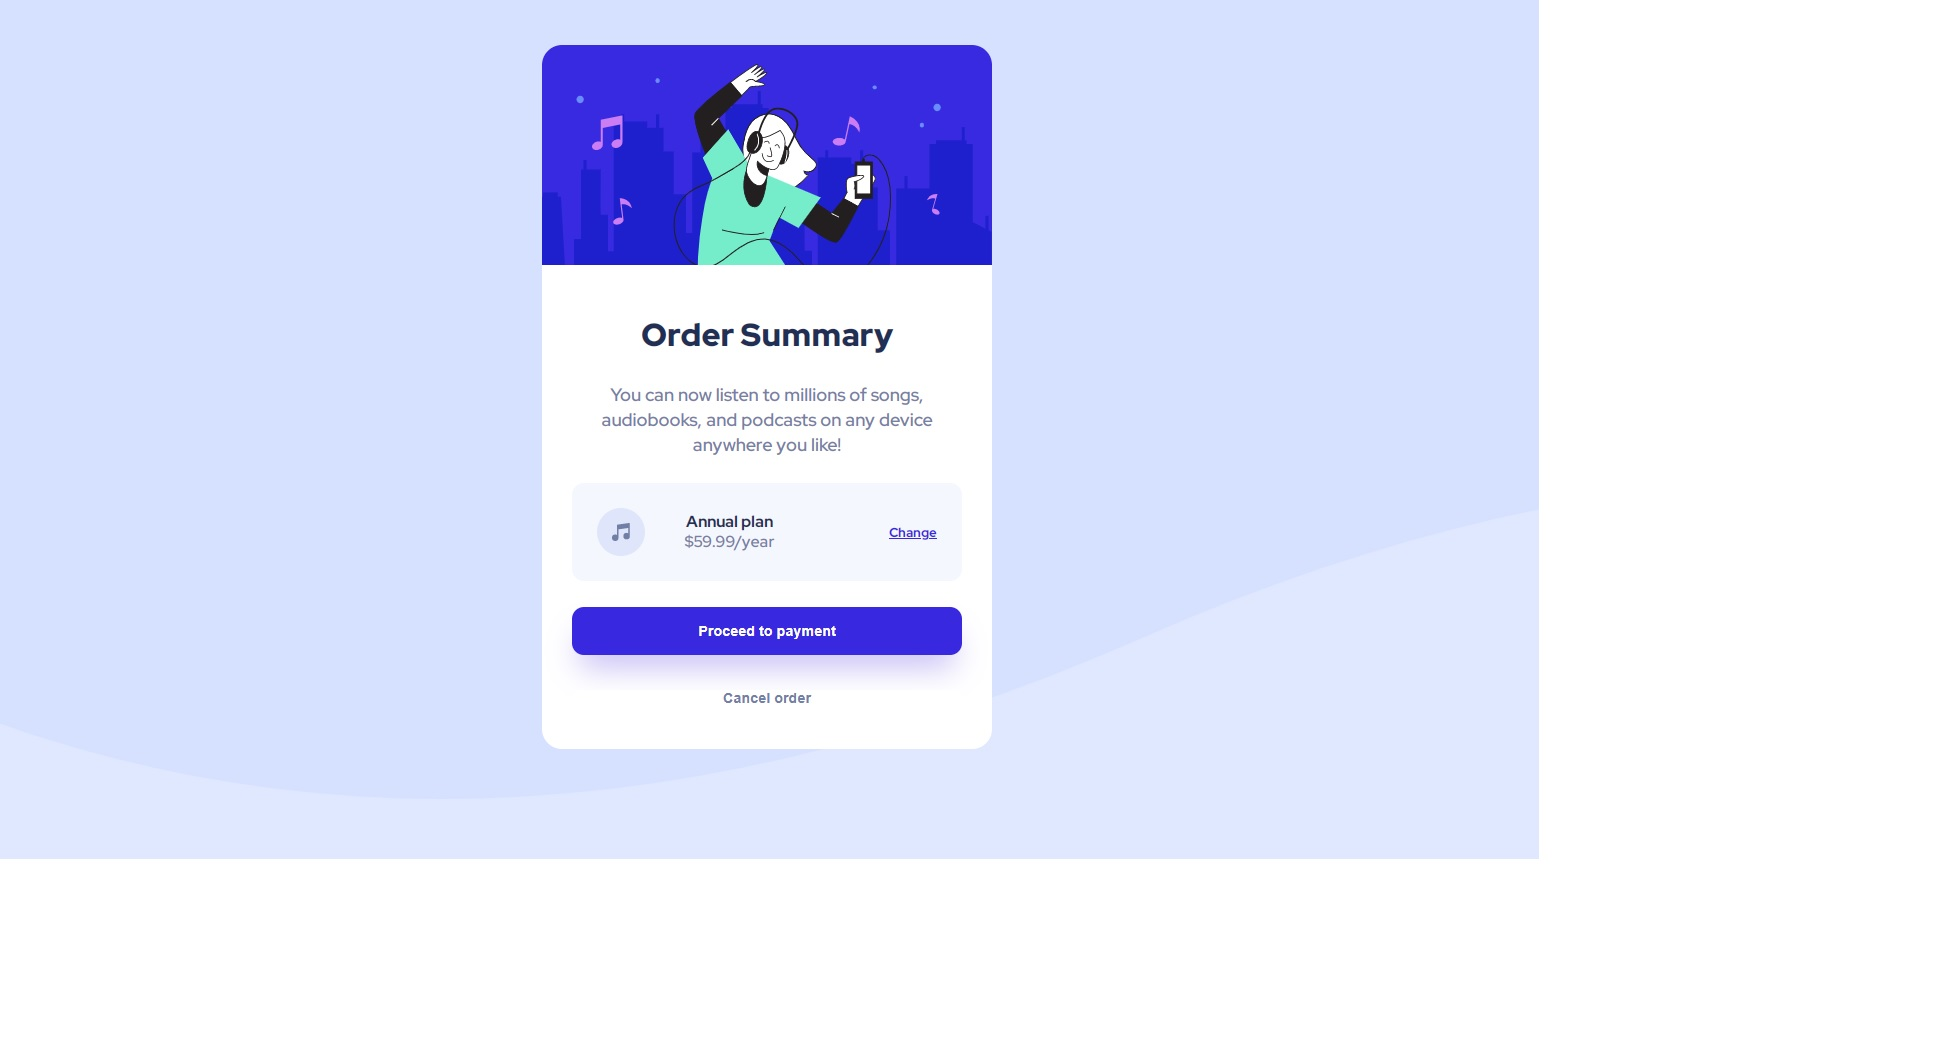
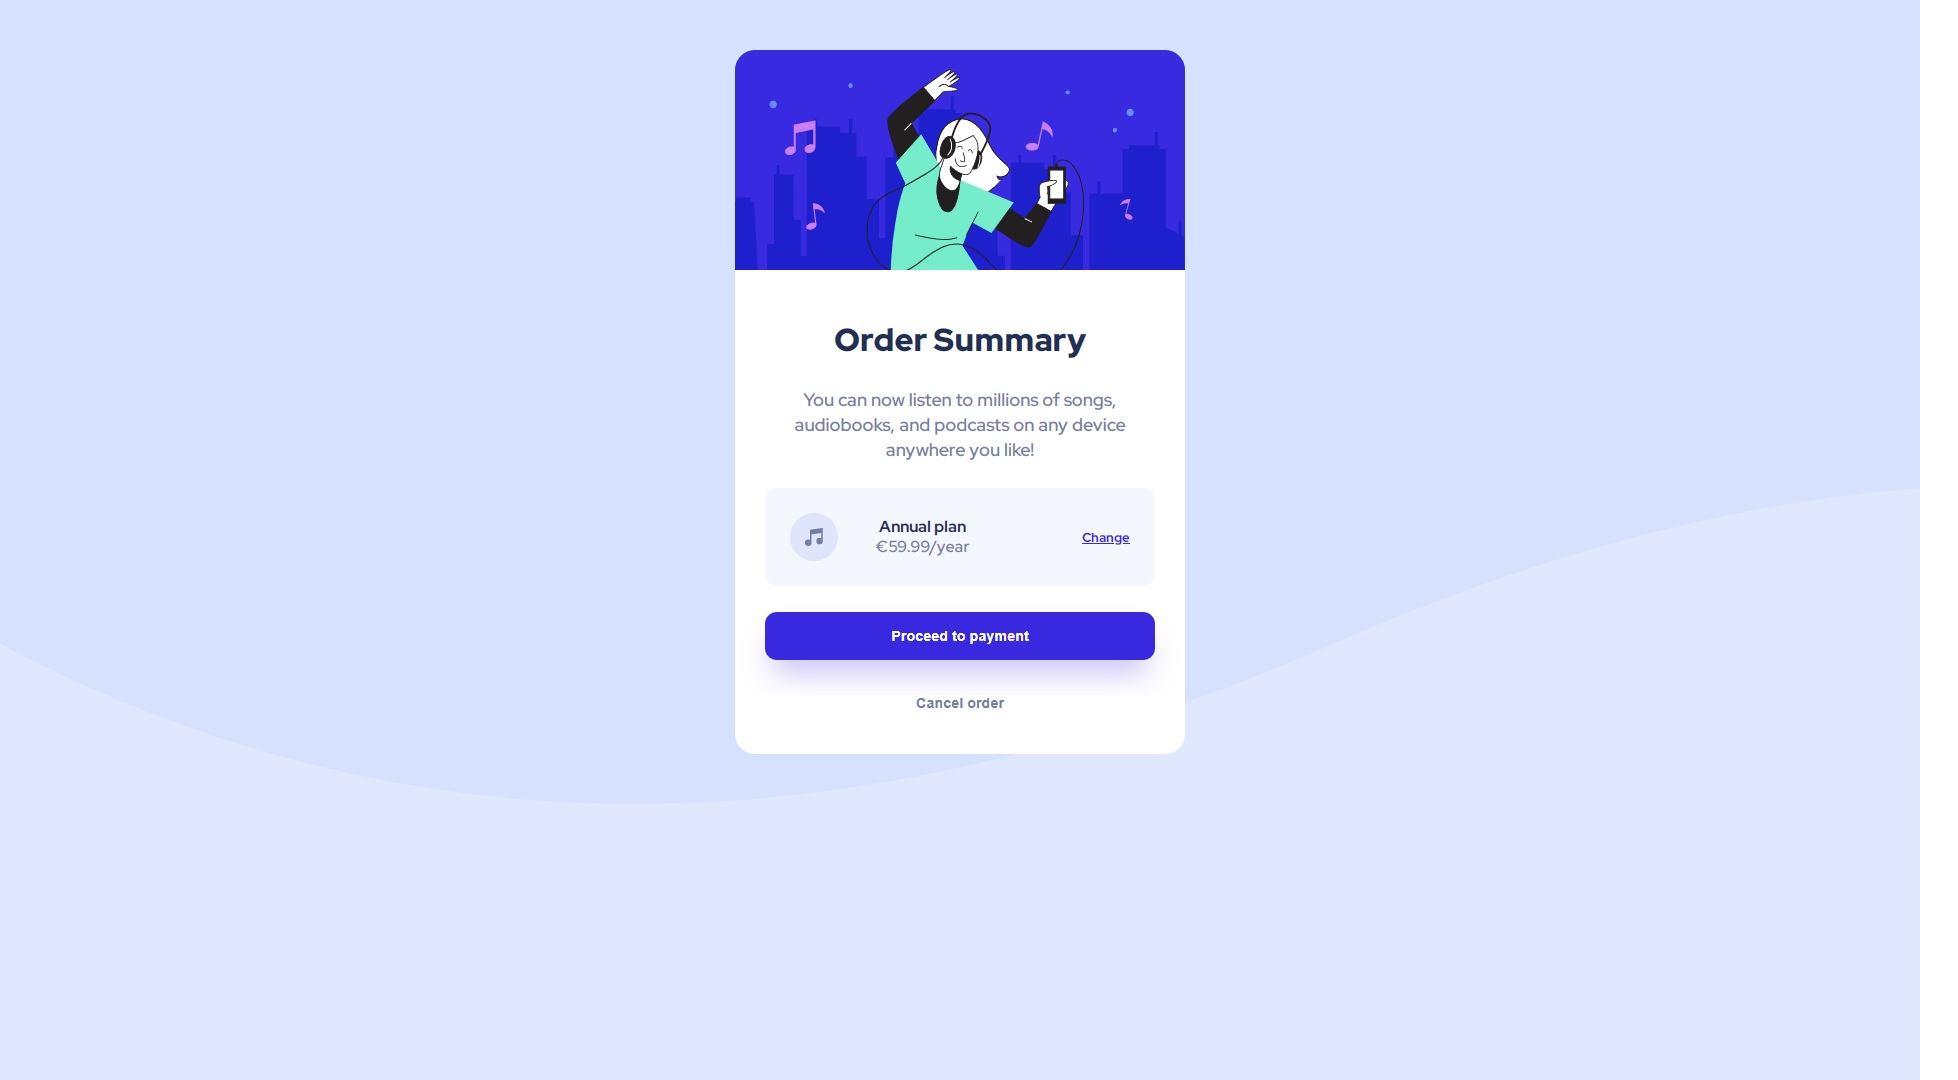
bug fixing
screenshots

diff --git a/index.html b/index.html
@@ -10,10 +10,10 @@
 </head>
 <body>
     <div class="container">
-        <div class="panel" style="background-image: url('images/login-page.jpg')">
+        <div class="panel" style="background-image: url('login-screen-errors/screenshot.jpg')">
             <a href="login-screen-errors/index.html" target="_blank"><h3>Login page</h3></a>
         </div>
-        <div class="panel" style="background-image: url('images/loading-page.jpg')">
+        <div class="panel" style="background-image: url('fade-to-clear-loading-screen/screenshot.jpg')">
             <a href="fade-to-clear-loading-screen/index.html" target="_blank"><h3>Loading page</h3></a>
         </div>
         <div class="panel" style="background-image: url('user-filter/screenshot.jpg')">

diff --git a/order-summary/index.html b/order-summary/index.html
@@ -17,7 +17,7 @@
                 <img src="./images/icon-music.svg" alt="music icon" srcset="">
                 <div class="plan-description">
                     <strong>Annual plan</strong>
-                    <p>$59.99/year</p>
+                    <p>€59.99/year</p>
                 </div>
                 <a href="#">Change</a>
             </div>

diff --git a/fade-to-clear-loading-screen/index.html b/fade-to-clear-loading-screen/index.html
@@ -10,7 +10,7 @@
 </head>
 <body>
     <section class="bg"></section>
-    <div class="loading-text">0%</div>
+    <div class="loading-text">100%</div>
     <div class="loaded">You have successfully loaded the page</div>
 </body>
 </html>
